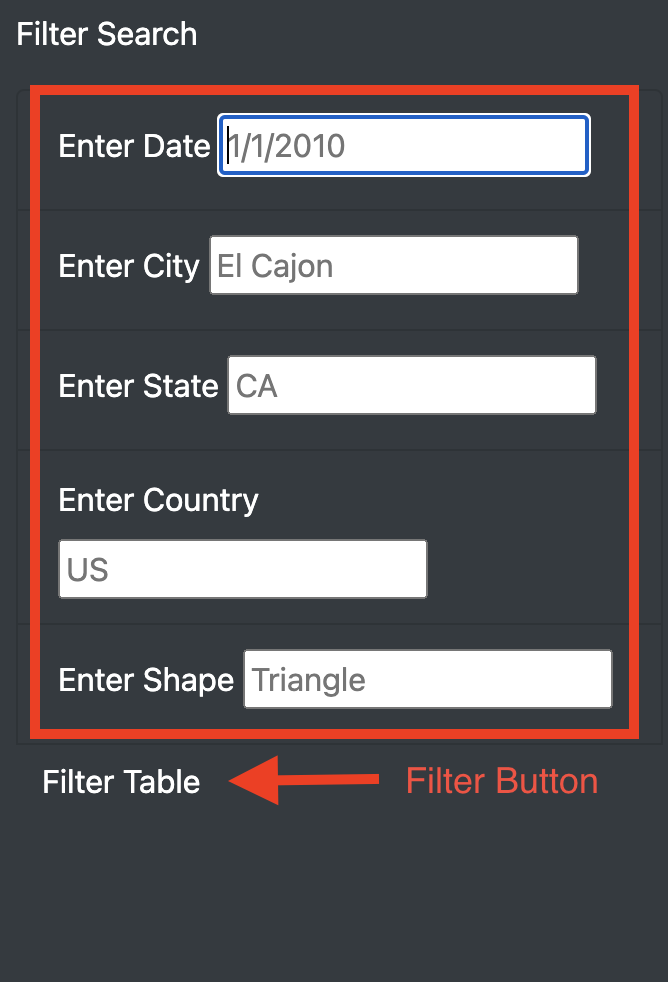
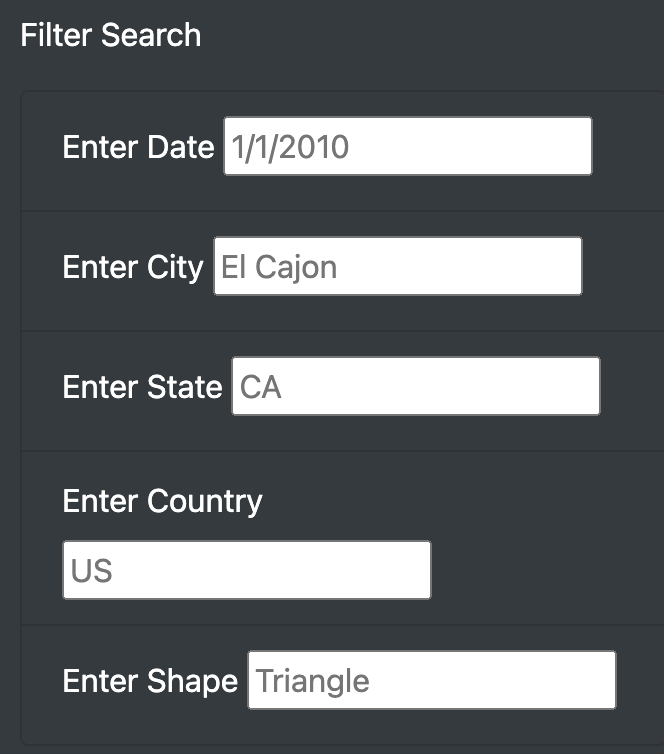
README.md

diff --git a/index.html b/index.html
@@ -74,12 +74,7 @@
                     <li class="list-group-item bg-dark">
                         <label for="shape">Enter Shape</label>
                         <input type="text" placeholder="Triangle" id="shape" />
-                    </li>
-                    <li>
-                        <button id="filter-btn" type="button" class="btn btn-dark">
-                        Filter Table
-                          </button>
-                    </li>
+                    </li> 
                 </ul>
             </form>
           </div>

diff --git a/README.md b/README.md
@@ -8,7 +8,7 @@ The purpose of this project is to provide a more in-depth analysis of UFO sighti
 
 ![Result.png](Result.png)
 
-The webpage can be filtered by utilizing the left hand filter. Please note that this filter is case-sensitive. You can enter just 1 filter or enter multiple to display more detailed information. Once the filter parameters have been set, click "Filter Table"
+The webpage can be filtered by utilizing the left hand filter. Please note that this filter is case-sensitive. You can enter just 1 filter or enter multiple to display more detailed information. Once the filter parameters have been sent the corresponding data will display.
 
 ![filter.png](filter.png)
 
